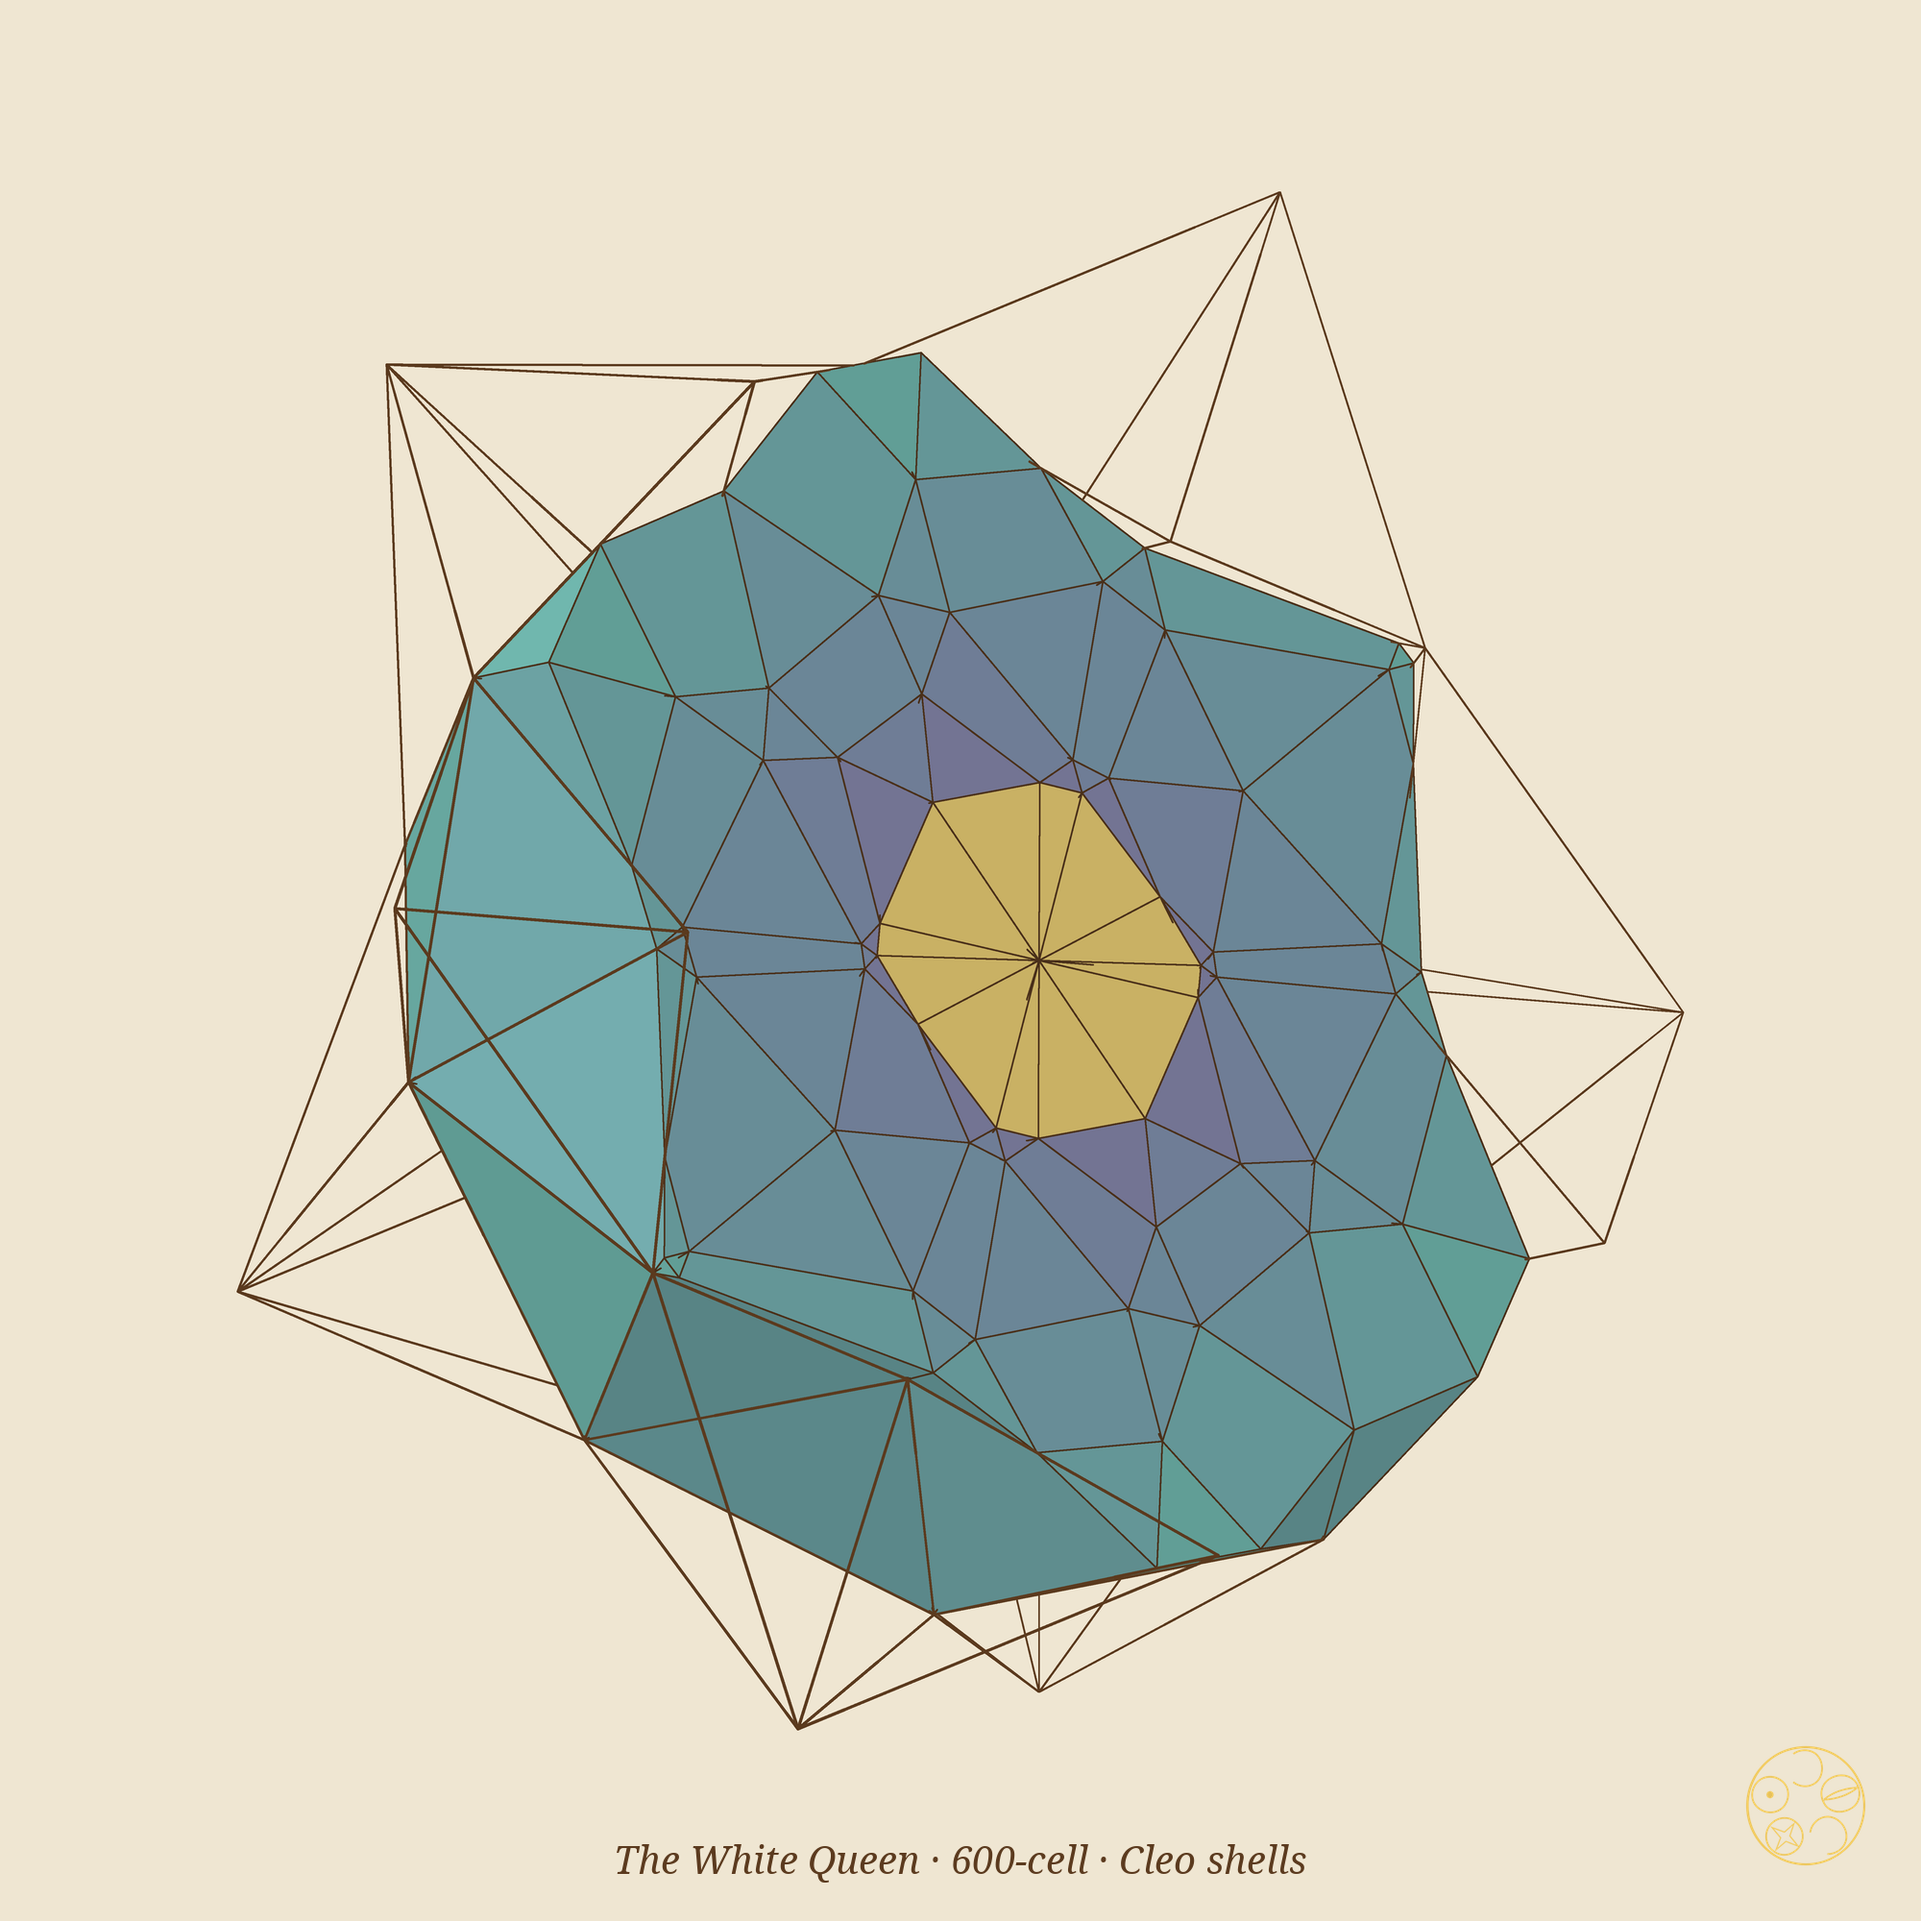
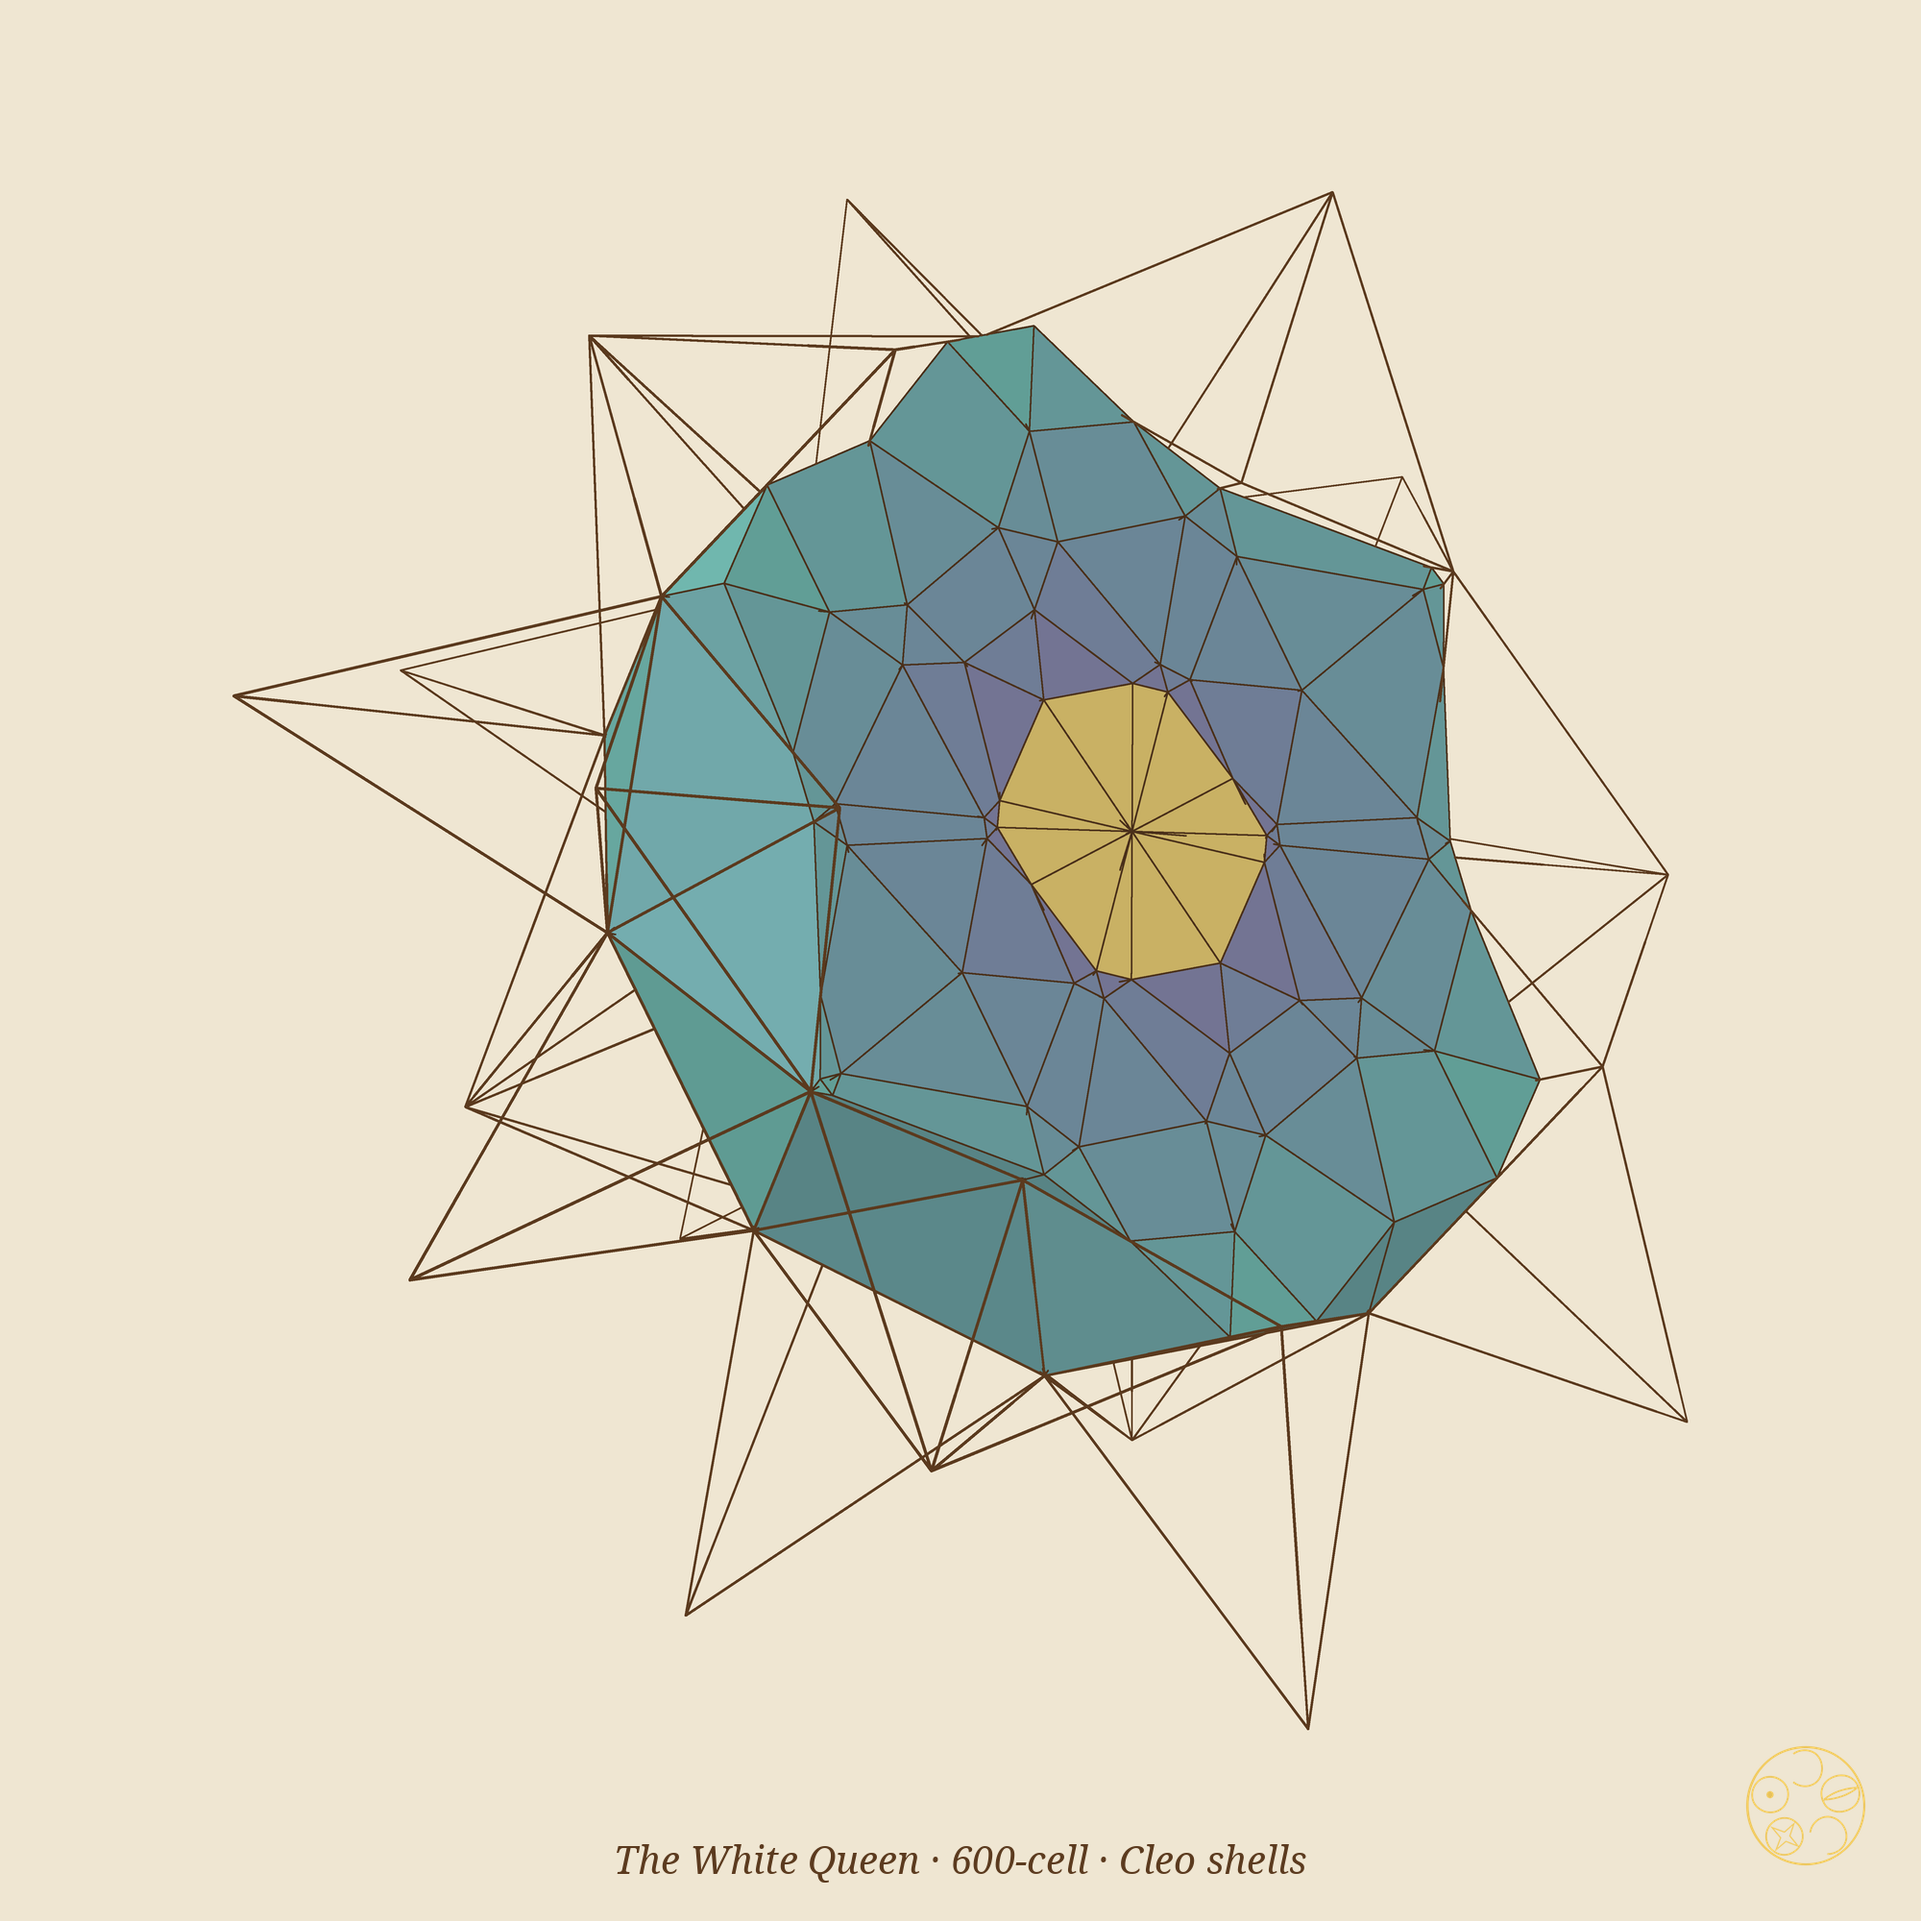
Queen Geodes: White Queen da Vinci with two outer shells in line (DICTO)

diff --git a/studies/2026-10-31-queen-geodes/scripts/queen_geodes.py b/studies/2026-10-31-queen-geodes/scripts/queen_geodes.py
@@ -331,7 +331,7 @@ if "wg" in which:
     geode("white", cell_W, GW, colsW, CFG.get("w_rind", [10, 9]), CFG.get("w_cry", [3, 4, 5, 6, 7, 8]), ax5W,
           CFG.get("w_sink", 0.0), CFG.get("w_tilt", 50), CFG.get("w_off", 17), os.path.join(OUT, "queen-geode-white.png"))
 if "wd" in which:
-    davinci("white", cell_W, GW, colsW, CFG.get("w_lines", [7]), CFG.get("w_fill", list(range(7))), ax5W,
+    davinci("white", cell_W, GW, colsW, CFG.get("w_lines", [7, 8]), CFG.get("w_fill", list(range(7))), ax5W,
             "The White Queen · 600-cell · Cleo shells", os.path.join(OUT, "queen-davinci-white.png"))
 if "rg" in which:
     geode("red", cell_R, GR, colsR, CFG.get("r_rind", [4]), CFG.get("r_cry", [1, 2, 3]), ax5R,
